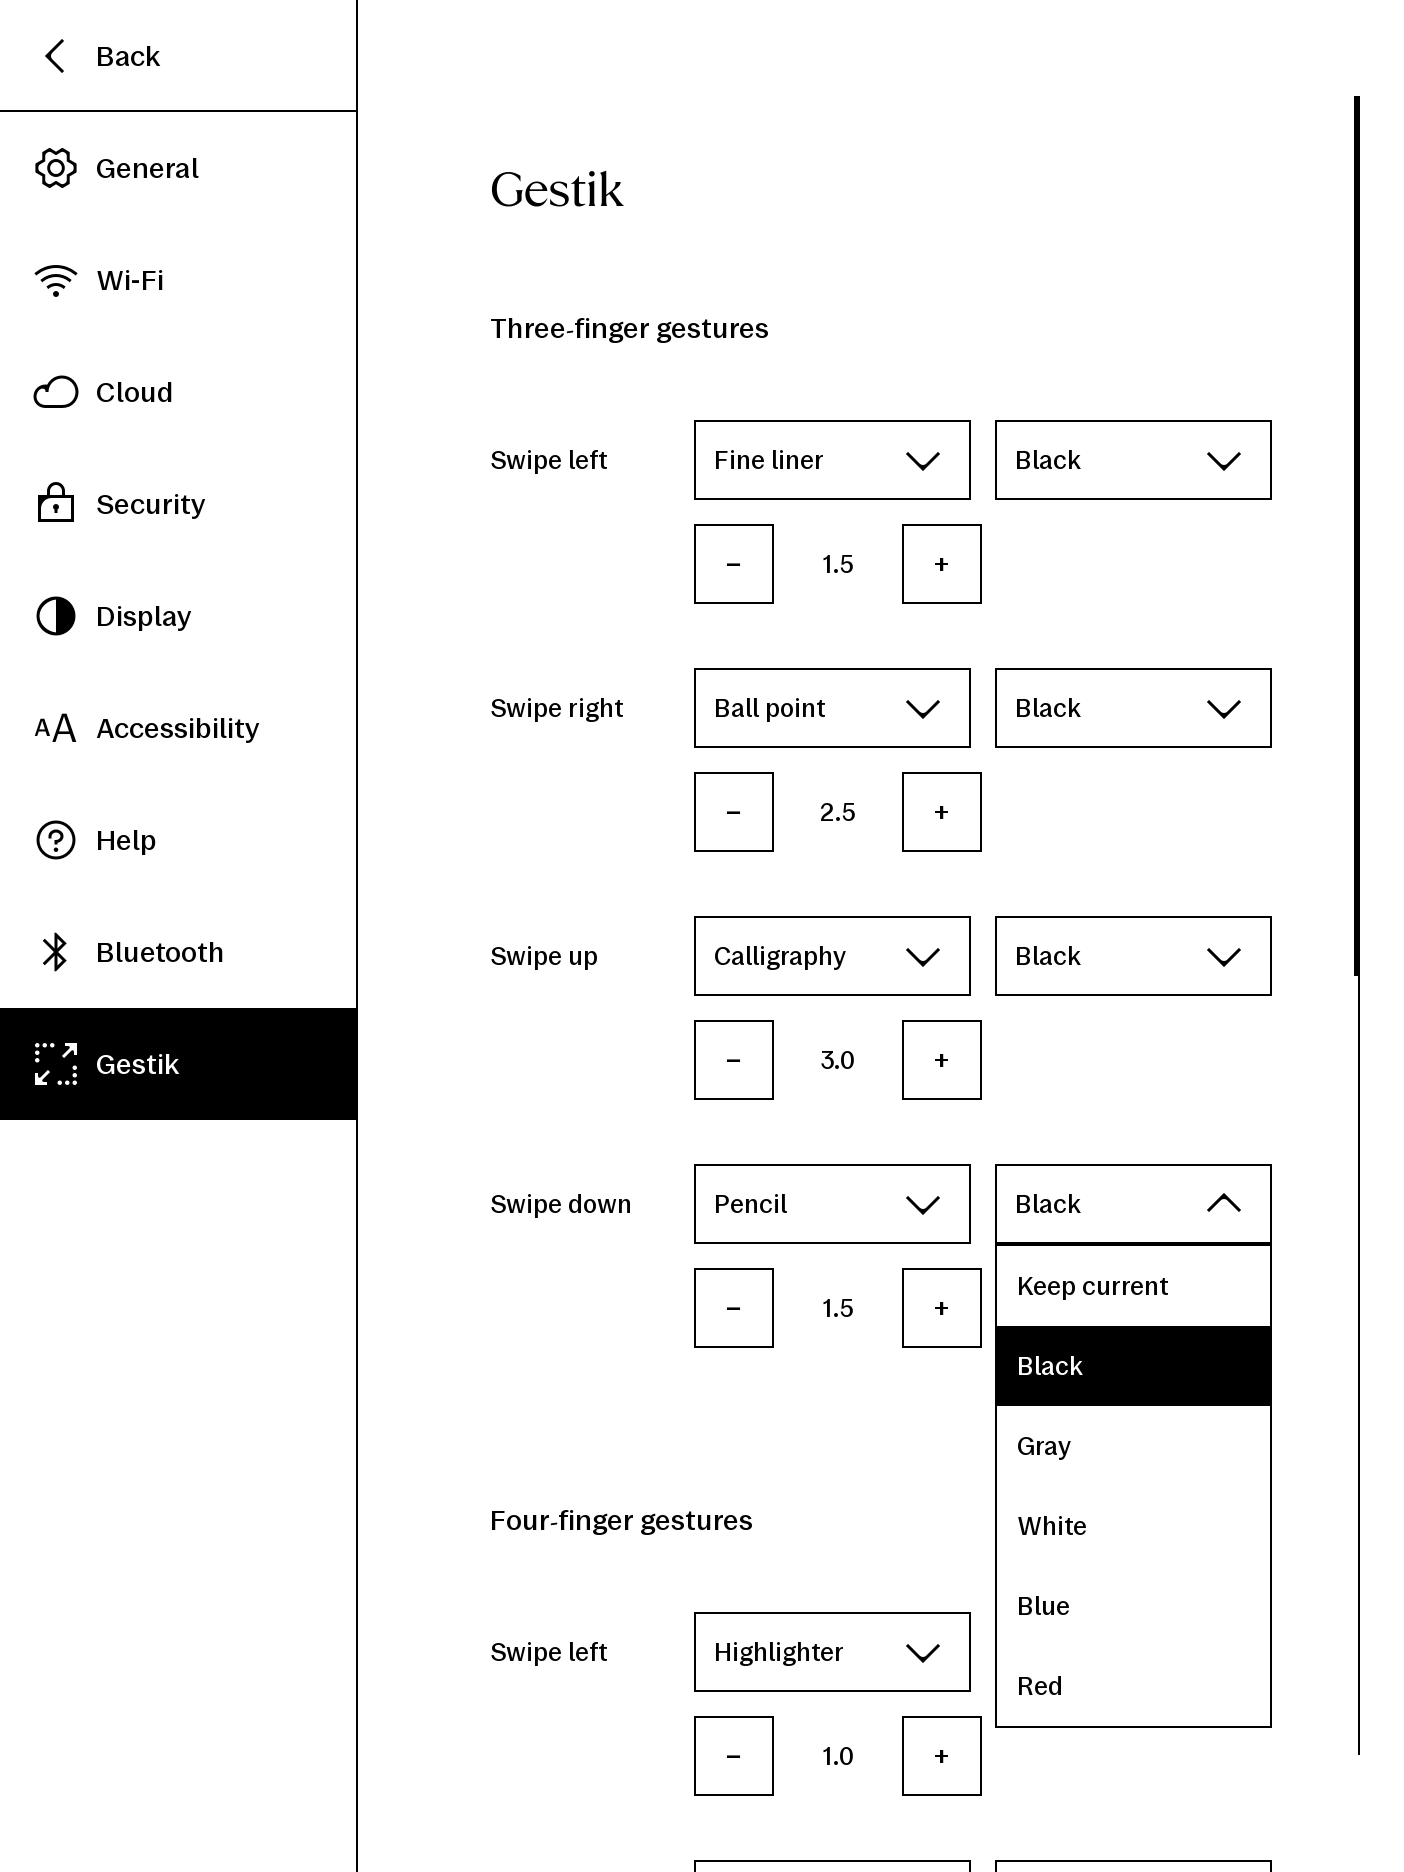
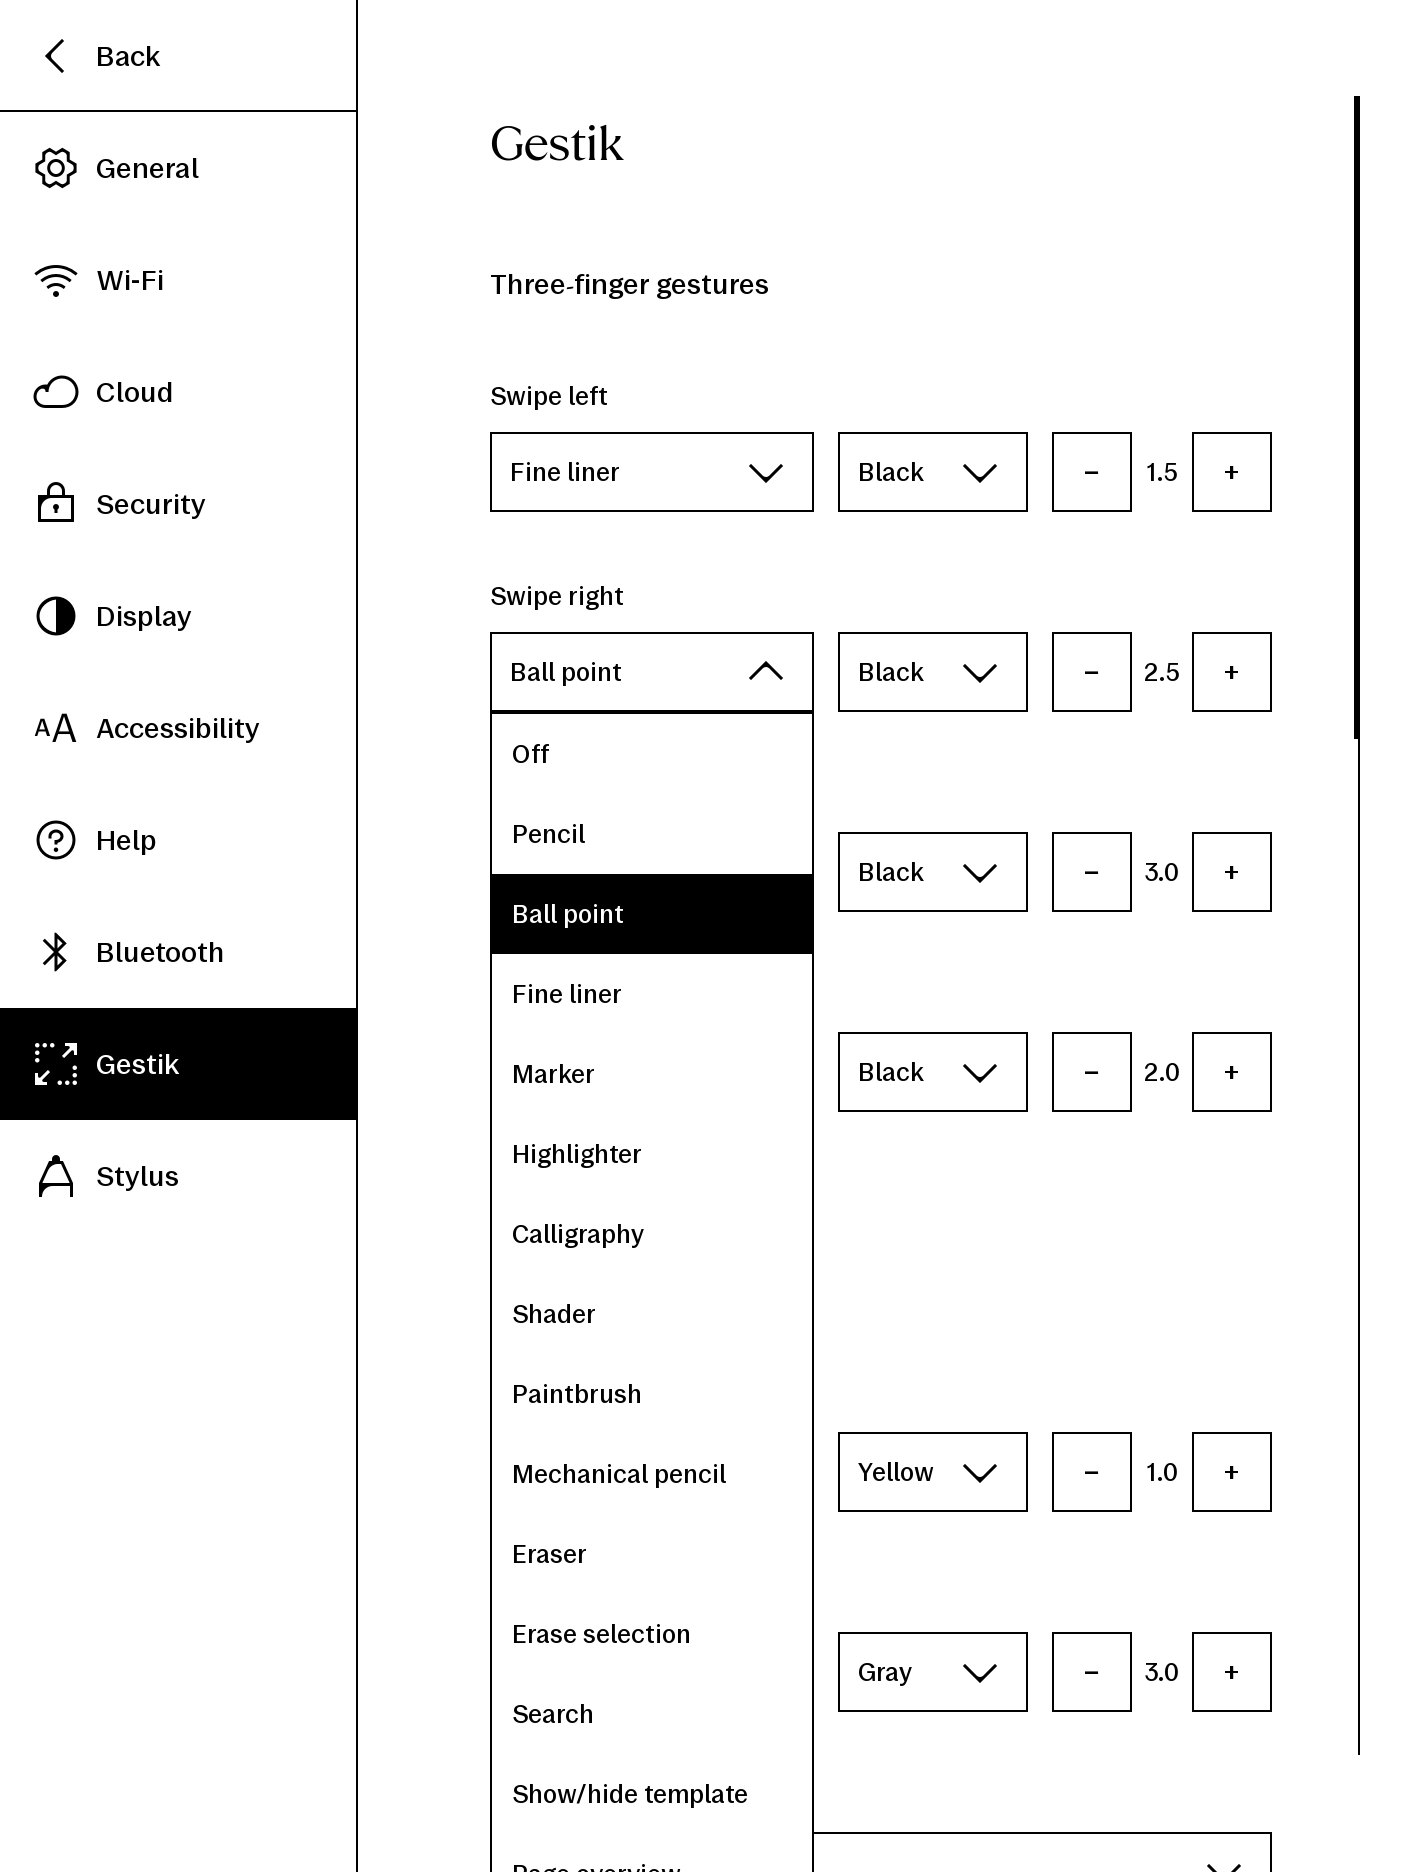
Update README.md

diff --git a/README.md b/README.md
@@ -3,7 +3,7 @@
 A personal suite of custom [XOVI](https://github.com/asivery/xovi) `.qmd` extensions to enhance the reMarkable tablet workflow, refining the user interface and unlocking essential missing features.
 
 At its core: 
-- **[Gestik](#gestik)** — three-, four-finger gestures to instant switch writing tools without reaching for the toolbar; five-finger gestures for navigation to page overview / ToC. Configurable from: *Settings ▸ Gestik* page.
+- **[Gestik](#gestik)** — three-, four-, five-finger gestures to instant switch writing tools / navigation to page overview / ToC and more without reaching for the toolbar. Configurable from: *Settings ▸ Gestik* page.
 - **[LinkFromSelection](#linkfromselection)** — *links* from a selection: jump to a page in the same document or another one.
 - **[NavHistory](#navhistory)** — *Back & Forward* navigation through your visited-page history.
 - **Additional nine tweaks** — see the [extensions table](#available-extensions) below.
@@ -55,14 +55,22 @@ ssh  root@10.11.99.1 'systemctl restart xochitl'
 ### Gestik
 [![vellum](https://img.shields.io/badge/vellum-gestik-6ed2ff?style=flat-square)](https://vellum.delivery/#/package/gestik/)
 
-Multi-finger gesture bundle: pen/tool & thickness presets on the 3- and 4-finger swipes, Selection/Lasso on a 4-finger tap, Page Overview / Table of Contents on 5-finger swipes. Each pen gesture switches the tool and sets its thickness and colour. Configurable from a dedicated **Settings ▸ Gestik** page.
+A configurable multi-finger gesture bundle from a dedicated **Settings ▸ Gestik** page. Map any 3-, 4-, or 5-finger swipe to the tool or action you want.
 
-| ![gestik cheat sheet](./assets/Gestik%20cheat%20sheet%201.png) | ![gestik settings](./assets/Gestik%20cheat%20sheet%202.png) |
+| Action | What it does |
+|---|---|
+| **Pens** — Pencil, Ball Point, Fine Liner, Marker, Highlighter, Calligraphy, Shader, Paintbrush, Mechanical Pencil | Switches the tool and sets its thickness and colour |
+| **Eraser** / **Erase Selection** | Swipe again to reactivate the previous pen |
+| **Page Overview** | Opens the page overview |
+| **Table of Contents** | Opens the ToC |
+| **Search** | Opens search |
+| **Show / Hide Template or PDF Background** | Toggles the template or PDF background |
+| **Increase / Decrease Thickness** | Steps the current pen's thickness up or down by 0.5 |
+| **Lasso** / **Selection** | Swipe again to reactivate the previous pen |
+| **Off** | Disables the gesture |
+
+| ![gestik cheat sheet](./assets/Gestik%20cheat%20sheet.png) | ![gestik settings](./assets/Gestik%20settings.png) |
 |:---:|:---:|
-
-| <img src="./assets/Gestik settings.png" width="475"> |
-|:--:|
-
 
 ---
 